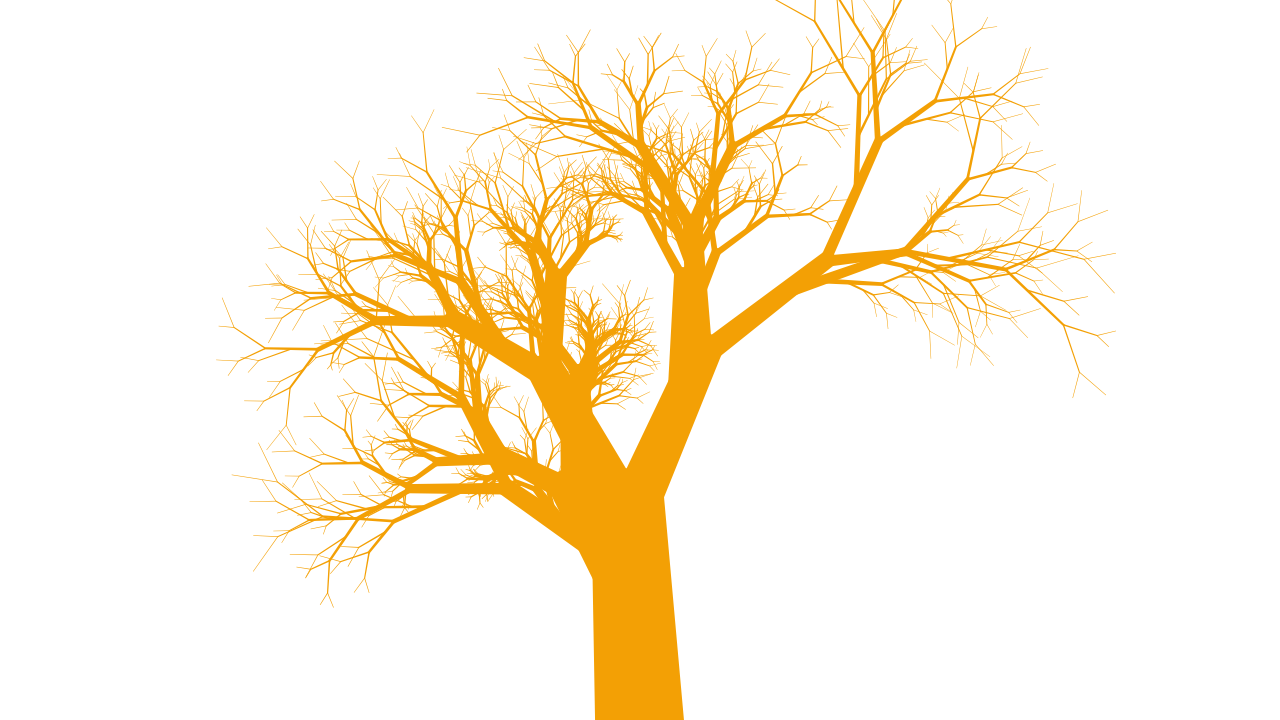
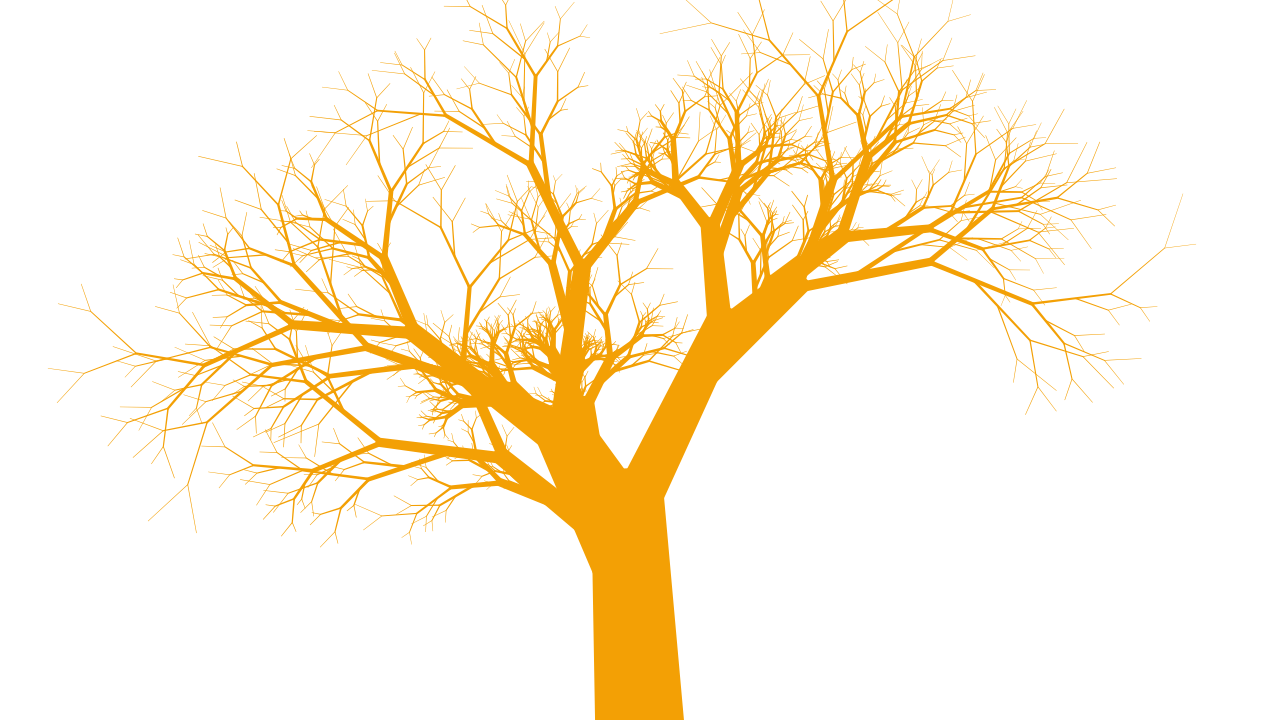
Simpler/cleaner

Changed region(s): [[0.0938, 0.0, 0.875, 0.7944], [0.4375, 0.7333, 0.4688, 0.7944], [0.4688, 0.6111, 0.5, 0.6417]]

diff --git a/ptree/ptree.go b/ptree/ptree.go
@@ -49,13 +49,12 @@ func NewCanvasWithOptions(rng rand.Rand, width, height, depth int, trunkWidth, t
 }
 
 func (c *Canvas) Trunk(trunkWidth, trunkHeightPct float64) *Branch {
-	// Create the trunk of the tree
 	trunk := &Branch{
 		Start:      Point{X: float64(c.Width)/2 - 0.5, Y: float64(c.Height)},
 		Angle:      math.Pi/2 + .2*(c.Rand.Float64()-0.5),
-		Length:     float64(c.Height) * (trunkHeightPct / 100.0),
-		StartWidth: trunkWidth + 0.2*trunkWidth*c.Rand.Float64(),
-		EndWidth:   trunkWidth*0.75 + 0.2*trunkWidth*c.Rand.Float64(),
+		Length:     float64(c.Height) * trunkHeightPct / 100.0,
+		StartWidth: trunkWidth * (1 + 0.2*c.Rand.Float64()),
+		EndWidth:   trunkWidth * (0.75 + 0.2*c.Rand.Float64()),
 		Rand:       c.Rand,
 		IsTrunk:    true,
 	}
@@ -154,8 +153,7 @@ func (c *Canvas) GenerateBranchesBFS(root *Branch, maxDepth int) {
 
 // Add a branch.
 func (b *Branch) Add(t BranchType) *Branch {
-	if b == nil || b.Length < 1 {
-		// parent non existent or too small, skip
+	if b.Length < 1 {
 		return nil
 	}
 	// Pick branch point along parent branch
@@ -164,47 +162,34 @@ func (b *Branch) Add(t BranchType) *Branch {
 		dist = b.Length * (0.3 + 0.3*b.Rand.Float64()) // Random point along branch for mid
 	}
 	dirX, dirY := b.Direction()
-	branchPoint := Point{
-		X: b.Start.X + dist*dirX,
-		Y: b.Start.Y + dist*dirY,
-	}
-	// Calculate new branch parameters
-	newLength := b.Length * (0.4 + 0.5*b.Rand.Float64())
-	newAngle := b.calculateChildAngle(t)
-	startWidth := b.EndWidth * (0.6 + 0.1*b.Rand.Float64())
-	endWidth := startWidth * (0.7 + 0.1*b.Rand.Float64())
 	newB := &Branch{
-		Start:      branchPoint,
-		Angle:      newAngle,
-		Length:     newLength,
-		StartWidth: startWidth,
-		EndWidth:   endWidth,
+		Start:      Point{X: b.Start.X + dist*dirX, Y: b.Start.Y + dist*dirY},
+		Angle:      b.calculateChildAngle(t),
+		Length:     b.Length * (0.4 + 0.5*b.Rand.Float64()),
+		StartWidth: b.EndWidth * (0.6 + 0.1*b.Rand.Float64()),
 		Rand:       b.Rand,
 	}
+	newB.EndWidth = newB.StartWidth * (0.7 + 0.1*b.Rand.Float64())
 	// Adjust start point for terminal branches to make edges contiguous
-	if t == LeftBranch || t == RightBranch {
+	if t != MidBranch {
 		newB.AdjustStartForParent(b, t)
 	}
 	newB.SetEnd()
 	return newB
 }
 
-// calculateChildAngle computes the angle for a child branch based on branch type.
 func (b *Branch) calculateChildAngle(t BranchType) float64 {
-	wiggle := (b.Rand.Float64() - 0.5) * (math.Pi / 20)
+	wiggle := (b.Rand.Float64() - 0.5) * math.Pi / 20
 	switch t {
 	case LeftBranch:
-		return b.Angle - (math.Pi / 6) + wiggle
+		return b.Angle - math.Pi/6 + wiggle
 	case RightBranch:
-		return b.Angle + (math.Pi / 6) + wiggle
-	case MidBranch:
-		// Pick side randomly
+		return b.Angle + math.Pi/6 + wiggle
+	default: // MidBranch
 		sign := 1.0
 		if b.Rand.Float64() < 0.5 {
 			sign = -1.0
 		}
-		return b.Angle + sign*(math.Pi/8) + wiggle
-	default:
-		panic("unknown branch type")
+		return b.Angle + sign*math.Pi/8 + wiggle
 	}
 }

diff --git a/ptree/draw.go b/ptree/draw.go
@@ -45,30 +45,22 @@ func drawBranchPolygon(img *image.RGBA, b *Branch, rgb tcolor.RGBColor) {
 		return
 	}
 
-	// Calculate the 4 vertices of the trapezoid
-	// Start point offsets (full width / 2)
 	startHalfWidth := b.StartWidth / 2
-	// For trunk, bottom should be flat (horizontal)
+	endHalfWidth := b.EndWidth / 2
+
+	// Calculate the 4 vertices of the trapezoid
 	var s1x, s1y, s2x, s2y float64
 	if b.IsTrunk {
-		// Flat bottom: perpendicular to vertical (horizontal)
-		s1x = b.Start.X + startHalfWidth
-		s1y = b.Start.Y
-		s2x = b.Start.X - startHalfWidth
-		s2y = b.Start.Y
+		// Flat bottom for trunk
+		s1x, s1y = b.Start.X+startHalfWidth, b.Start.Y
+		s2x, s2y = b.Start.X-startHalfWidth, b.Start.Y
 	} else {
-		s1x = b.Start.X + perpX*startHalfWidth
-		s1y = b.Start.Y + perpY*startHalfWidth
-		s2x = b.Start.X - perpX*startHalfWidth
-		s2y = b.Start.Y - perpY*startHalfWidth
+		s1x, s1y = b.Start.X+perpX*startHalfWidth, b.Start.Y+perpY*startHalfWidth
+		s2x, s2y = b.Start.X-perpX*startHalfWidth, b.Start.Y-perpY*startHalfWidth
 	}
 
-	// End point offsets (full width / 2)
-	endHalfWidth := b.EndWidth / 2
-	e1x := b.End.X + perpX*endHalfWidth
-	e1y := b.End.Y + perpY*endHalfWidth
-	e2x := b.End.X - perpX*endHalfWidth
-	e2y := b.End.Y - perpY*endHalfWidth
+	e1x, e1y := b.End.X+perpX*endHalfWidth, b.End.Y+perpY*endHalfWidth
+	e2x, e2y := b.End.X-perpX*endHalfWidth, b.End.Y-perpY*endHalfWidth
 
 	// Create rasterizer and draw the trapezoid
 	rast := vector.NewRasterizer(img.Bounds().Dx(), img.Bounds().Dy())

diff --git a/main.go b/main.go
@@ -215,24 +215,26 @@ func (st *State) Pot() {
 }
 
 func (st *State) DrawTree() {
-	dy := 6
-	if !st.pot {
-		dy = 0
+	dy := 0
+	if st.pot {
+		dy = 6
 	}
-	c := ptree.NewCanvasWithOptions(st.rand, st.ap.W, 2*st.ap.H-dy, st.depth, st.trunkWidth, st.trunkHeightPct)
+	height := 2*st.ap.H - dy
+	c := ptree.NewCanvasWithOptions(st.rand, st.ap.W, height, st.depth, st.trunkWidth, st.trunkHeightPct)
 	c.MonoColor = st.monoColor
-	var img draw.Image
+
 	var showImg *image.RGBA
 	if st.lines {
-		img = image.NewNRGBA(image.Rect(0, 0, st.ap.W, 2*st.ap.H-dy))
-		ptree.DrawTree(img, c, st.lines)
+		nrgba := image.NewNRGBA(image.Rect(0, 0, st.ap.W, height))
+		ptree.DrawTree(nrgba, c, true)
 		// Convert NRGBA to RGBA for display
-		showImg = image.NewRGBA(img.Bounds())
-		draw.Draw(showImg, img.Bounds(), img, image.Point{}, draw.Src)
+		showImg = image.NewRGBA(nrgba.Bounds())
+		draw.Draw(showImg, nrgba.Bounds(), nrgba, image.Point{}, draw.Src)
 	} else {
-		showImg = image.NewRGBA(image.Rect(0, 0, st.ap.W, 2*st.ap.H-dy))
-		ptree.DrawTree(showImg, c, st.lines)
+		showImg = image.NewRGBA(image.Rect(0, 0, st.ap.W, height))
+		ptree.DrawTree(showImg, c, false)
 	}
+
 	st.ap.StartSyncMode()
 	st.ap.ClearScreen()
 	st.Pot()
